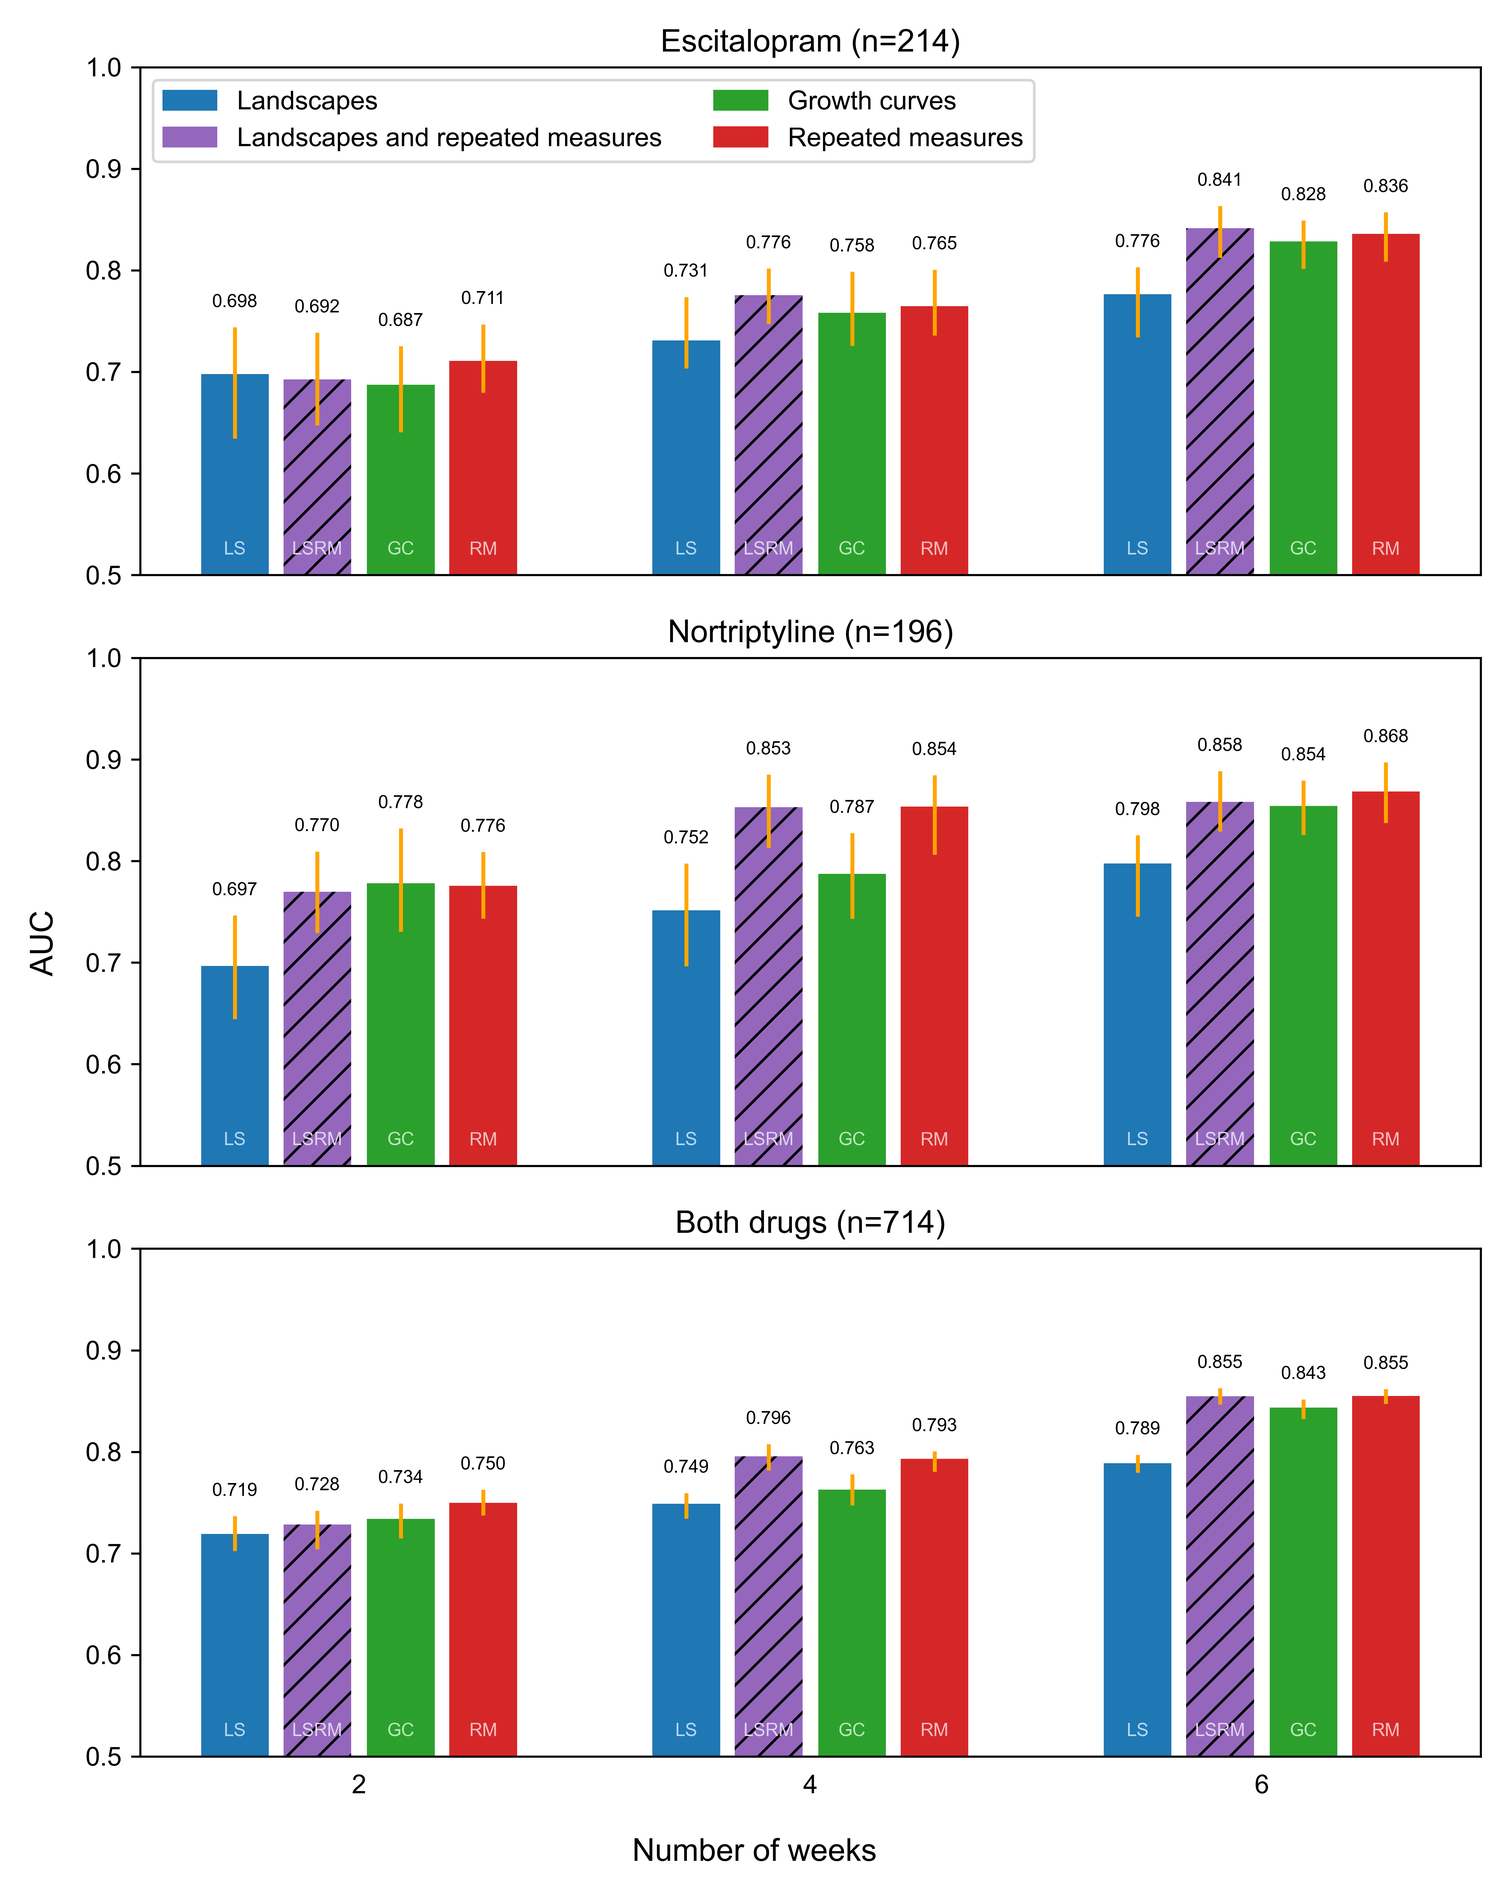
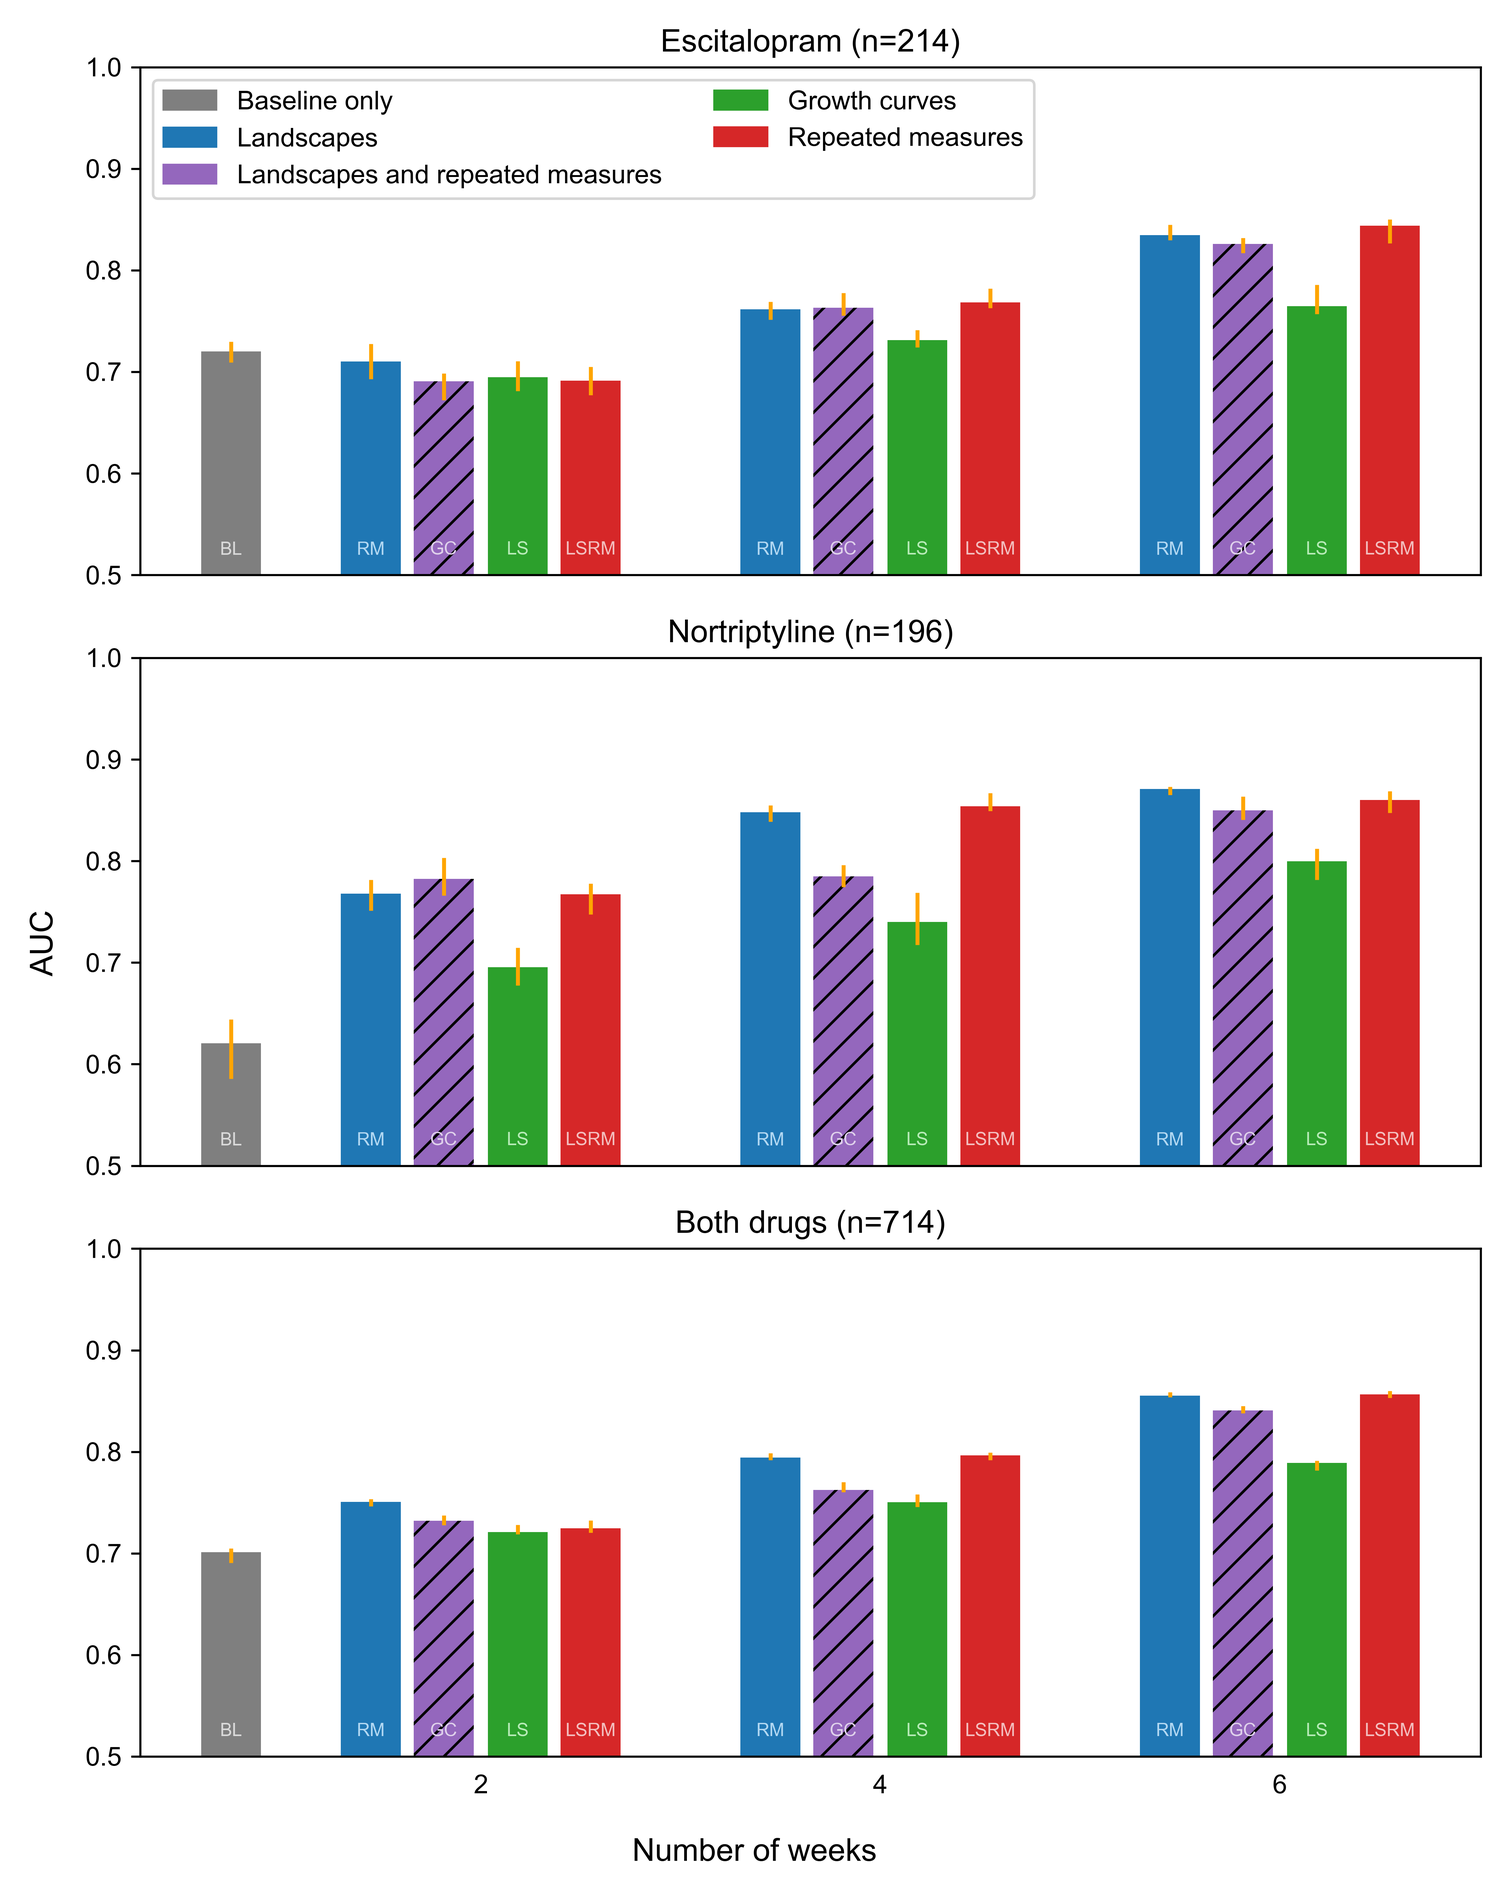
Extract other metrics, update figures
Accuracy, NPV, etc.

diff --git a/prediction/grid_search.py b/prediction/grid_search.py
@@ -18,10 +18,20 @@ from glmnet import LogitNet
 import gudhi as gd
 from gudhi.representations import DiagramSelector, Landscape
 from scipy.stats import ttest_ind
+from sklearn.metrics import (make_scorer, confusion_matrix,
+                             recall_score, brier_score_loss)
 
-refit = False
+refit_grid_search = False
+refit_iv_landscapes = False
+refit_iv_baseline = True
+refit_iv_alts = True
+select_subsample = False
 n_reps = 50
-latest = 'saved/2021_08_09/2021_08_08_153539_grid_search.joblib'
+cores = 10
+grid_search = 'saved/2021_08_09/2021_08_08_153539_grid_search.joblib'
+
+def tstamp(suffix):
+    return(datetime.today().strftime('%Y_%m_%d_%H%M%S') + '_' + suffix + '.joblib')
 
 # ┏━━━━━━━━━━━━━━━━━━━━━━━━━━━━━━━━━━━━━━━━━━━━━━━━━━━━━━━━━━━━━━━━━━━━━━━━━━━┓
 # ┃                                                                           ┃
@@ -29,16 +39,82 @@ latest = 'saved/2021_08_09/2021_08_08_153539_grid_search.joblib'
 # ┃                                                                           ┃
 # ┗━━━━━━━━━━━━━━━━━━━━━━━━━━━━━━━━━━━━━━━━━━━━━━━━━━━━━━━━━━━━━━━━━━━━━━━━━━━┛
 
-def cv_metric(fit, reps=50):
-    summary = {}
-    for k, v in fit.items():
-        if reps == 1:
-            summary[k] = np.mean(v)
-        else:
-            fold_means = [np.mean(i) for i in np.array_split(v, reps)]
-            summary[k] = np.percentile(fold_means, [50, 2, 98])
-            summary[k] = np.percentile(fold_means, [50])[0]
-    return(summary)
+def tn(y_true, y_pred):
+    return(confusion_matrix(y_true, y_pred)[0, 0])
+
+
+def fp(y_true, y_pred):
+    return(confusion_matrix(y_true, y_pred)[0, 1])
+
+
+def fn(y_true, y_pred):
+    return(confusion_matrix(y_true, y_pred)[1, 0])
+
+
+def tp(y_true, y_pred):
+    return(confusion_matrix(y_true, y_pred)[1, 1])
+
+
+def calc_npv(y_true, y_prob, threshold=0.5):
+    y_pred = y_prob > threshold
+    n_tn = int(tn(y_true, y_pred))
+    n_fn = int(fn(y_true, y_pred))
+    if n_tn == 0:
+        npv = np.nan
+    else:
+        with np.errstate(invalid='ignore'):
+            npv = np.mean(n_tn / (n_tn + n_fn))
+    return(npv)
+
+
+def calc_ppv(y_true, y_prob, threshold=0.5):
+    y_pred = y_prob > threshold
+    n_tp = int(tp(y_true, y_pred))
+    n_fp = int(fp(y_true, y_pred))
+    if n_tp == 0:
+        ppv = np.nan
+    else:
+        with np.errstate(invalid='ignore'):
+            ppv = np.mean(n_tp / (n_tp + n_fp))
+    return(ppv)
+
+
+def sens(y_true, y_prob, threshold):
+    y_pred = y_prob > threshold
+    return(recall_score(y_true, y_pred))
+
+
+def spec(y_true, y_prob, threshold):
+    y_pred = y_prob > threshold
+    return(recall_score(y_true, y_pred, pos_label=0))
+
+
+scorers = {'auc': 'roc_auc',
+           'sens': make_scorer(recall_score),
+           'spec': make_scorer(recall_score, pos_label=0),
+           'ppv': make_scorer(calc_ppv, needs_proba=True),
+           'npv': make_scorer(calc_npv, needs_proba=True),
+           'tp': make_scorer(tp),
+           'tn': make_scorer(tn),
+           'fp': make_scorer(fp),
+           'fn': make_scorer(fn),
+           'brier': make_scorer(brier_score_loss,
+                                greater_is_better=False,
+                                needs_proba=True)}
+
+def cv_metric(l, reps=50):
+    if reps == 1:
+        return(np.mean(l))
+    else:
+        fold_means = [np.mean(i) for i in np.array_split(l, reps)]
+        return(np.percentile(fold_means, [50, 2, 98]))
+
+def print_summary(l, reps):
+    for k1, v1 in l.items():
+        print(k1)
+        for k2, v2 in v1['cv'].items():
+            if k2 != 'estimator':
+                print(k2, cv_metric(v2, reps))
 
 def reshape(dat):
     var = dat.columns.str.startswith('rep_')
@@ -51,7 +127,6 @@ def reshape(dat):
     rv.drop(labels=['_', 'week', 'variable', 'item'], axis=1, inplace=True)
     rv.sort_values(['subjectid', 'var', 'w'], inplace=True)
     return((rv, var))
-
 
 def knn(dat):
     # kNN imputation, but retaining column names
@@ -104,7 +179,7 @@ def compute_topological_variables(dat,
                     ps[dim] = LS.fit_transform(D)
                 else:
                     ps[dim] = np.full((1, n_land*bins), 0)
-            ls[k] = np.hstack([v for k, v in ps.items()])
+            ls[k] = np.hstack([v for _, v in ps.items()])
 
     # Combine landscape variables for all participants
     ls = pd.DataFrame({k: v[0] for k, v in ls.items()}).T
@@ -178,9 +253,15 @@ for k, v in samp.items():
 comb['escit'] = comb['drug'] == 'escitalopram'
 comb.drop(labels=['drug', 'random'], axis=1, inplace=True)
 
+# Prepare 'baseline' features
 # Recode 'drug'; remove 'random'
 baseline['escit'] = baseline['drug'] == 'escitalopram'
 baseline.drop(labels=['drug', 'random'], axis=1, inplace=True)
+
+# Select subsample for testing purposes
+if select_subsample:
+    for k, v in samp.items():
+        samp[k] = pd.Series(v).sample(frac=0.3)
 
 # ┏━━━━━━━━━━━━━━━━━━━━━━━━━━━━━━━━━━━━━━━━━━━━━━━━━━━━━━━━━━━━━━━━━━━━━━━━━━━┓
 # ┃                                                                           ┃
@@ -245,7 +326,7 @@ for land in [3, 5, 10, 12, 15]:
 # ┃                                                                           ┃
 # ┗━━━━━━━━━━━━━━━━━━━━━━━━━━━━━━━━━━━━━━━━━━━━━━━━━━━━━━━━━━━━━━━━━━━━━━━━━━━┛
 
-if refit:
+if refit_grid_search:
     cv_inner = {}
     for k, v in samp.items():
         # For each sample [A, B, C]
@@ -271,11 +352,9 @@ if refit:
                 del X
                 del y
                 del params
-        fn = (datetime.today().strftime('%Y_%m_%d_%H%M%S') +
-              '_grid_search.joblib')
-        dump(cv_inner, filename=fn)
+        dump(cv_inner, filename=tstamp('grid_search'))
 else:
-    cv_inner = load(latest)
+    cv_inner = load(grid_search)
 
 # ┏━━━━━━━━━━━━━━━━━━━━━━━━━━━━━━━━━━━━━━━━━━━━━━━━━━━━━━━━━━━━━━━━━━━━━━━━━━━┓
 # ┃                                                                           ┃
@@ -283,7 +362,8 @@ else:
 # ┃                                                                           ┃
 # ┗━━━━━━━━━━━━━━━━━━━━━━━━━━━━━━━━━━━━━━━━━━━━━━━━━━━━━━━━━━━━━━━━━━━━━━━━━━━┛
 
-def evaluate_model(X, y, reps=50, impute=False):
+def evaluate_model(X, y, reps=50, impute=False, return_estimator=False):
+    features = X.columns
     if impute:
         X = knn(X)
     # Remove features with zero VarianceThreshold
@@ -295,42 +375,65 @@ def evaluate_model(X, y, reps=50, impute=False):
                    n_splits=10,
                    random_state=42)
     rkf = RepeatedKFold(n_splits=10, n_repeats=reps, random_state=42)
-    fit = cross_validate(clf, X, y, cv=rkf, scoring='roc_auc', n_jobs=-1)
-    return(fit)
+    fit = cross_validate(clf,
+                         X,
+                         y,
+                         cv=rkf,
+                         scoring=scorers,
+                         n_jobs=cores,
+                         return_estimator=return_estimator)
+    # Refit, once, to get feature importance
+    single = clf.fit(X, y)
+    return({'cv': fit, 'single': single, 'features': features})
 
-cv_outer = {}
-for k, v in samp.items():
-    for max_week in [2, 4, 6]:
-        # For increasing weeks of data
-        for keep_rm in [True, False]:
-            # Prepare X/y
-            X = comb.loc[v].copy()
-            y = hdremit.loc[v].copy()
-            if k[1] != 'both':
-                X.drop(labels=['escit'], axis=1, inplace=True)
-            # Get best parameters from inner CV
-            params = cv_inner[(k,
+if refit_iv_landscapes:
+    cv_landscapes = {}
+    for k, v in samp.items():
+        for max_week in [2, 4, 6]:
+            # For increasing weeks of data
+            for keep_rm in [True, False]:
+                print(k, max_week, keep_rm)
+                # Prepare X/y
+                X = comb.loc[v].copy()
+                y = hdremit.loc[v].copy()
+                if k[1] != 'both':
+                    X.drop(labels=['escit'], axis=1, inplace=True)
+                # Get best parameters from inner CV
+                params = cv_inner[(k,
+                                   keep_rm,
+                                   max_week)].best_params_['topo__kw_args']
+                params['keep_rm'] = keep_rm
+                params['max_week'] = max_week
+                # Impute missing values
+                X = knn(X)
+                # Generate landscape variables (once, rather than at each CV iteration)
+                landscapes = compute_topological_variables(X, **params)
+                # Remove features with zero VarianceThreshold
+                vt = VarianceThreshold()
+                feat = vt.fit_transform(landscapes)
+                # Run repeated CV
+                cv_landscapes[(k,
                                keep_rm,
-                               max_week)].best_params_['topo__kw_args']
-            params['keep_rm'] = keep_rm
-            params['max_week'] = max_week
-            # Impute missing values
-            X = knn(X)
-            # Generate landscape variables (once, rather than at each CV iteration)
-            landscapes = compute_topological_variables(X, **params)
-            # Remove features with zero VarianceThreshold
-            vt = VarianceThreshold()
-            feat = vt.fit_transform(landscapes)
-            # Run repeated CV
-            cv_outer[(k,
-                      keep_rm,
-                      max_week)] = evaluate_model(landscapes, y, n_reps)
+                               max_week)] = evaluate_model(landscapes, y, reps=n_reps)
+    # Save with date/time stamp
+    dump(cv_landscapes, filename=tstamp('cv_landscapes'))
+    del cv_landscapes
 
-for k, v in cv_outer.items():
-    print(k, v['test_score'].mean())
-
-fn = (datetime.today().strftime('%Y_%m_%d_%H%M%S') + '_outer_cv.joblib')
-dump(cv_outer, filename=fn)
+# Fit 'baseline only' model ---------------------------------------------------
+if refit_iv_baseline:
+    cv_baseline = {}
+    for k, v in samp.items():
+        print(k)
+        # Prepare X/y
+        X = baseline.loc[v].copy()
+        y = hdremit.loc[v].copy()
+        if k[1] != 'both':
+            X.drop(labels=['escit'], axis=1, inplace=True)
+        # Run repeated CV
+        cv_baseline[k] = evaluate_model(X, y, n_reps, impute=True)
+    # Save with date/time stamp
+    dump(cv_baseline, filename=tstamp('cv_baseline'))
+    del cv_baseline
 
 # ┏━━━━━━━━━━━━━━━━━━━━━━━━━━━━━━━━━━━━━━━━━━━━━━━━━━━━━━━━━━━━━━━━━━━━━━━━━━━┓
 # ┃                                                                           ┃
@@ -360,19 +463,15 @@ for mw in [2, 4, 6]:
             how='inner')
 
 # Fit models for each ---------------------------------------------------------
-cv_alts = {}
-for k1, id in samp.items():
-    for k2, dat in alts.items():
-        # Prepare X/y
-        X = dat.loc[id].copy()
-        y = hdremit.loc[id].copy()
-        if k1[1] != 'both':
-            X.drop(labels=['escit'], axis=1, inplace=True)
-        # Run repeated CV
-        cv_alts[(k1, k2)] = evaluate_model(X, y, reps=n_reps, impute=True)
-
-for k, v in cv_alts.items():
-    print(k, v['test_score'].mean())
-
-fn = (datetime.today().strftime('%Y_%m_%d_%H%M%S') + '_outer_cv.joblib')
-dump([cv_outer, cv_alts], filename=fn)
+if refit_iv_alts:
+    cv_alts = {}
+    for k1, id in samp.items():
+        for k2, dat in alts.items():
+            # Prepare X/y
+            X = dat.loc[id].copy()
+            y = hdremit.loc[id].copy()
+            if k1[1] != 'both':
+                X.drop(labels=['escit'], axis=1, inplace=True)
+            # Run repeated CV
+            cv_alts[(k1, k2)] = evaluate_model(X, y, reps=n_reps, impute=True)
+    dump(cv_alts, filename=tstamp('cv_alts'))

diff --git a/prediction/process_cv.py b/prediction/process_cv.py
@@ -92,6 +92,31 @@ gc.pivot(index=['sample', 'drug', 'random', 'max_week'],
 
 # ┏━━━━━━━━━━━━━━━━━━━━━━━━━━━━━━━━━━━━━━━━━━━━━━━━━━━━━━━━━━━━━━━━━━━━━━━━━━━┓
 # ┃                                                                           ┃
+# ┃                  Get results from 'baseline only' models                  ┃
+# ┃                                                                           ┃
+# ┗━━━━━━━━━━━━━━━━━━━━━━━━━━━━━━━━━━━━━━━━━━━━━━━━━━━━━━━━━━━━━━━━━━━━━━━━━━━┛
+
+
+cv_baseline = load('saved/2021_11_18/2021_11_18_141553_cv_baseline.joblib')
+
+bl = []
+for k, v in cv_baseline.items():
+    p50, p2, p98 = cv_metric(v, reps=100)
+    cell = f'{p50:.3f} [{p2:.3f}, {p98:.3f}]'
+    bl.append({
+        'sample': k[0],
+        'drug': k[1],
+        'random': k[2],
+        'max_week': 0,
+        'auc': p50,
+        'lo': p2,
+        'hi': p98,
+        'cell': cell})
+bl = pd.DataFrame(bl)[['sample', 'drug', 'random', 'max_week', 'cell']].rename({'cell': 'bl'}, axis=1)
+bl.set_index(['sample', 'drug', 'random', 'max_week'], inplace=True)
+
+# ┏━━━━━━━━━━━━━━━━━━━━━━━━━━━━━━━━━━━━━━━━━━━━━━━━━━━━━━━━━━━━━━━━━━━━━━━━━━━┓
+# ┃                                                                           ┃
 # ┃                       Table comparing all estimates                       ┃
 # ┃                                                                           ┃
 # ┗━━━━━━━━━━━━━━━━━━━━━━━━━━━━━━━━━━━━━━━━━━━━━━━━━━━━━━━━━━━━━━━━━━━━━━━━━━━┛
@@ -108,13 +133,13 @@ tab_gc = gc.pivot(index=['sample', 'drug', 'random', 'max_week'],
                   values=['cell'])
 tab_gc.columns = ['gc', 'rm']
 
+tab_bl = bl.pivot(index=['sample', 'drug', 'random', 'max_week'],
+                  columns=['method'],
+                  values=['cell'])
+tab_bl.columns = ['bl', 'rm']
 
 # Combined
-tab_all = pd.merge(tab_ls,
-                   tab_gc,
-                   left_index=True,
-                   right_index=True,
-                   how='outer')
-
+how = {'left_index': True, 'right_index': True, 'how': 'outer'}
+tab_all = pd.merge(tab_ls, tab_gc, **how)
 tab_all.to_excel('~/results.xlsx')
 

diff --git a/prediction/tables_and_figures.py b/prediction/tables_and_figures.py
@@ -307,9 +307,12 @@ fig.supxlabel('Number of weeks')
 plt.tight_layout()
 plt.savefig('figures/auc.png', dpi=600)
 
-# Calculate accuracy ----------------------------------------------------------
+# Calculate other metrics, based on TP, TN, FP, FN ----------------------------
 
 def accuracy(tn, tp, fn, fp):
+    return((tp + tn) / (tp + tn + fp + fn))
+
+def fpr(tn, tp, fn, fp):
     return((tp + tn) / (tp + tn + fp + fn))
 
 d['test_acc'] = None
@@ -321,6 +324,7 @@ for k, v in d.iterrows():
         fn = v['test_fn'][i]
         fp = v['test_fp'][i]
         d.loc[k, 'acc_' + lab] = accuracy(tn, tp, fn, fp)
+        d.loc[k, '_' + lab] = accuracy(tn, tp, fn, fp)
 
 d['test_acc'] = d[['acc_est', 'acc_lo', 'acc_hi']].apply(tuple, axis=1)
 
@@ -349,6 +353,8 @@ for m in ['auc', 'acc', 'sens', 'spec', 'ppv', 'npv']:
 # ┃                    Plot best AUC for each week of data                    ┃
 # ┃                                                                           ┃
 # ┗━━━━━━━━━━━━━━━━━━━━━━━━━━━━━━━━━━━━━━━━━━━━━━━━━━━━━━━━━━━━━━━━━━━━━━━━━━━┛
+
+# TODO: UPDATE THIS FOR NEW METRICS
 
 d['best'] = d.groupby(['sample', 'max_week'])['auc'].transform(max)
 best = d[d['best'] == d['auc']][['sample', 'max_week', 'method',
